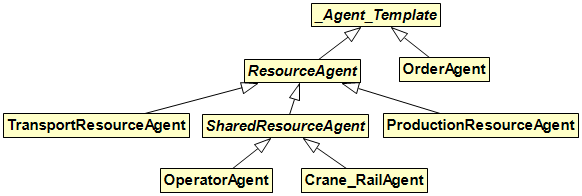
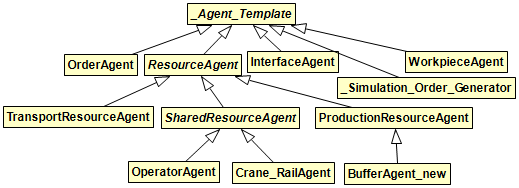
Buffers optimized - stable version

diff --git a/agentPro_Prototype/src/agentPro_Prototype_Agents/ProductionResourceAgent.java b/agentPro_Prototype/src/agentPro_Prototype_Agents/ProductionResourceAgent.java
@@ -445,10 +445,13 @@ public ArrayList<Proposal> checkScheduleDetermineTimeslotAndCreateProposal(CFP c
 			 slot_found_this_FI = true;
 			 //sort earliest end first
 			 this.sortArrayListIntervalsEarliestFirst(listOfIntervals, "end");
+			 if(this.getRepresentedResource().getName().contains("Durchsatz")) {
+				 System.out.println("here");
+			 }
 			 //now the best slot is found --> calculate buffers
 			operation.setBuffer_before_operation_start((listOfIntervals.get(0).lowerBound()-(long)(setup_and_pickup_to_consider*60*1000))-getFree_interval_array().get(i).lowerBound());			 			
 			operation.setBuffer_before_operation_end(operation.getBuffer_before_operation_start());
-			operation.setBuffer_after_operation_end((getFree_interval_array().get(i).upperBound()-(long)(time_increment_or_decrement_to_be_added_for_setup_of_next_task*60*1000))-listOfIntervals.get(0).upperBound());
+			operation.setBuffer_after_operation_end((getFree_interval_array().get(i).upperBound()-(long)(time_increment_or_decrement_to_be_added_for_setup_of_next_task*60*1000))-Run_Configuration.avg_pickUp*60*1000-listOfIntervals.get(0).upperBound());
 			operation.setBuffer_after_operation_start(operation.getBuffer_after_operation_end());
 			
 			

diff --git a/agentPro_Prototype/src/support_classes/Run_Configuration.java b/agentPro_Prototype/src/support_classes/Run_Configuration.java
@@ -32,9 +32,9 @@ public interface Run_Configuration {
 		
 	//For algorithm
 		/*needs to be adjusted in case of transportation*/ int avg_pickUp = 10;//10; 
-		int minimal_distance = 1;
-		double transport_speed = 0.25;
-		long transport_estimation = (long) 1000*60*(avg_pickUp*2+ (long) (minimal_distance/transport_speed));//(long) 1000*60*15;	//estimated duration of transport = 15 min
+		int minimal_distance = 5;
+		double transport_speed = 0.0833333333;   // resulting in 60s for 5 m
+		long transport_estimation = (long) 1000*60*(avg_pickUp*2+ (long) (minimal_distance/(transport_speed*60)));//(long) 1000*60*15;	//estimated duration of transport = 15 min
 		long transport_estimation_CFP = 0;//(long) 1000*60*15;	//estimated duration of transport = 15 min
 		//long transport_estimation = 0;//(long) 1000*60*15;
 		
